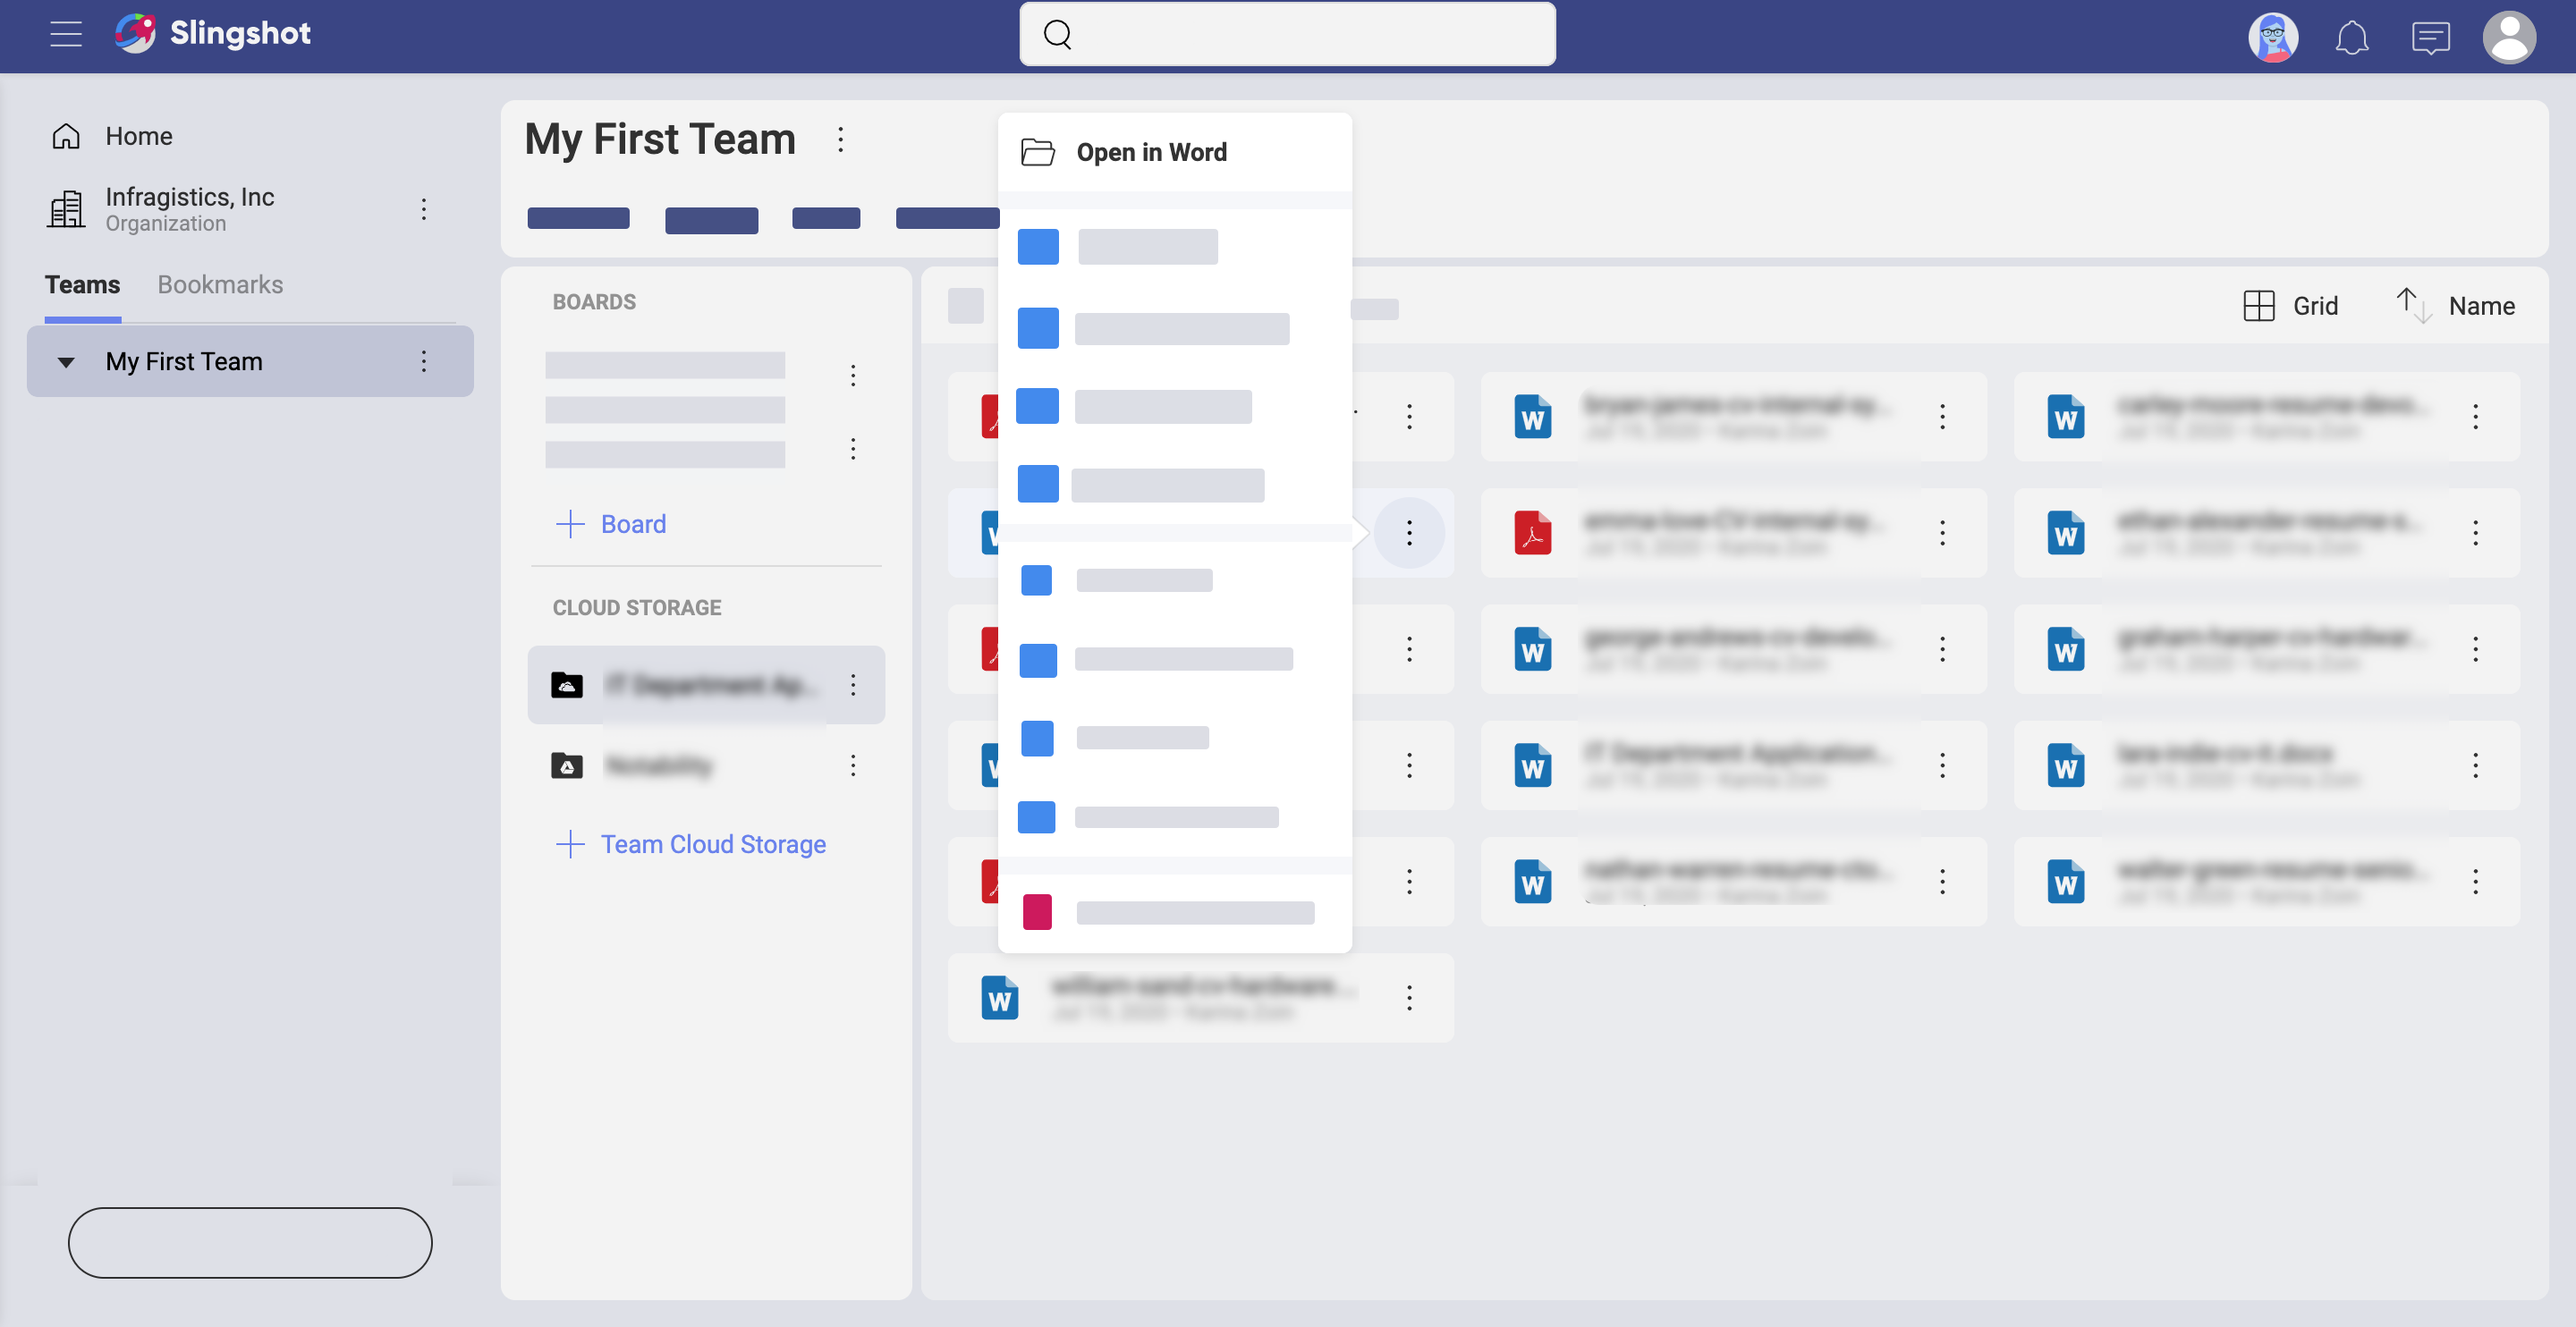
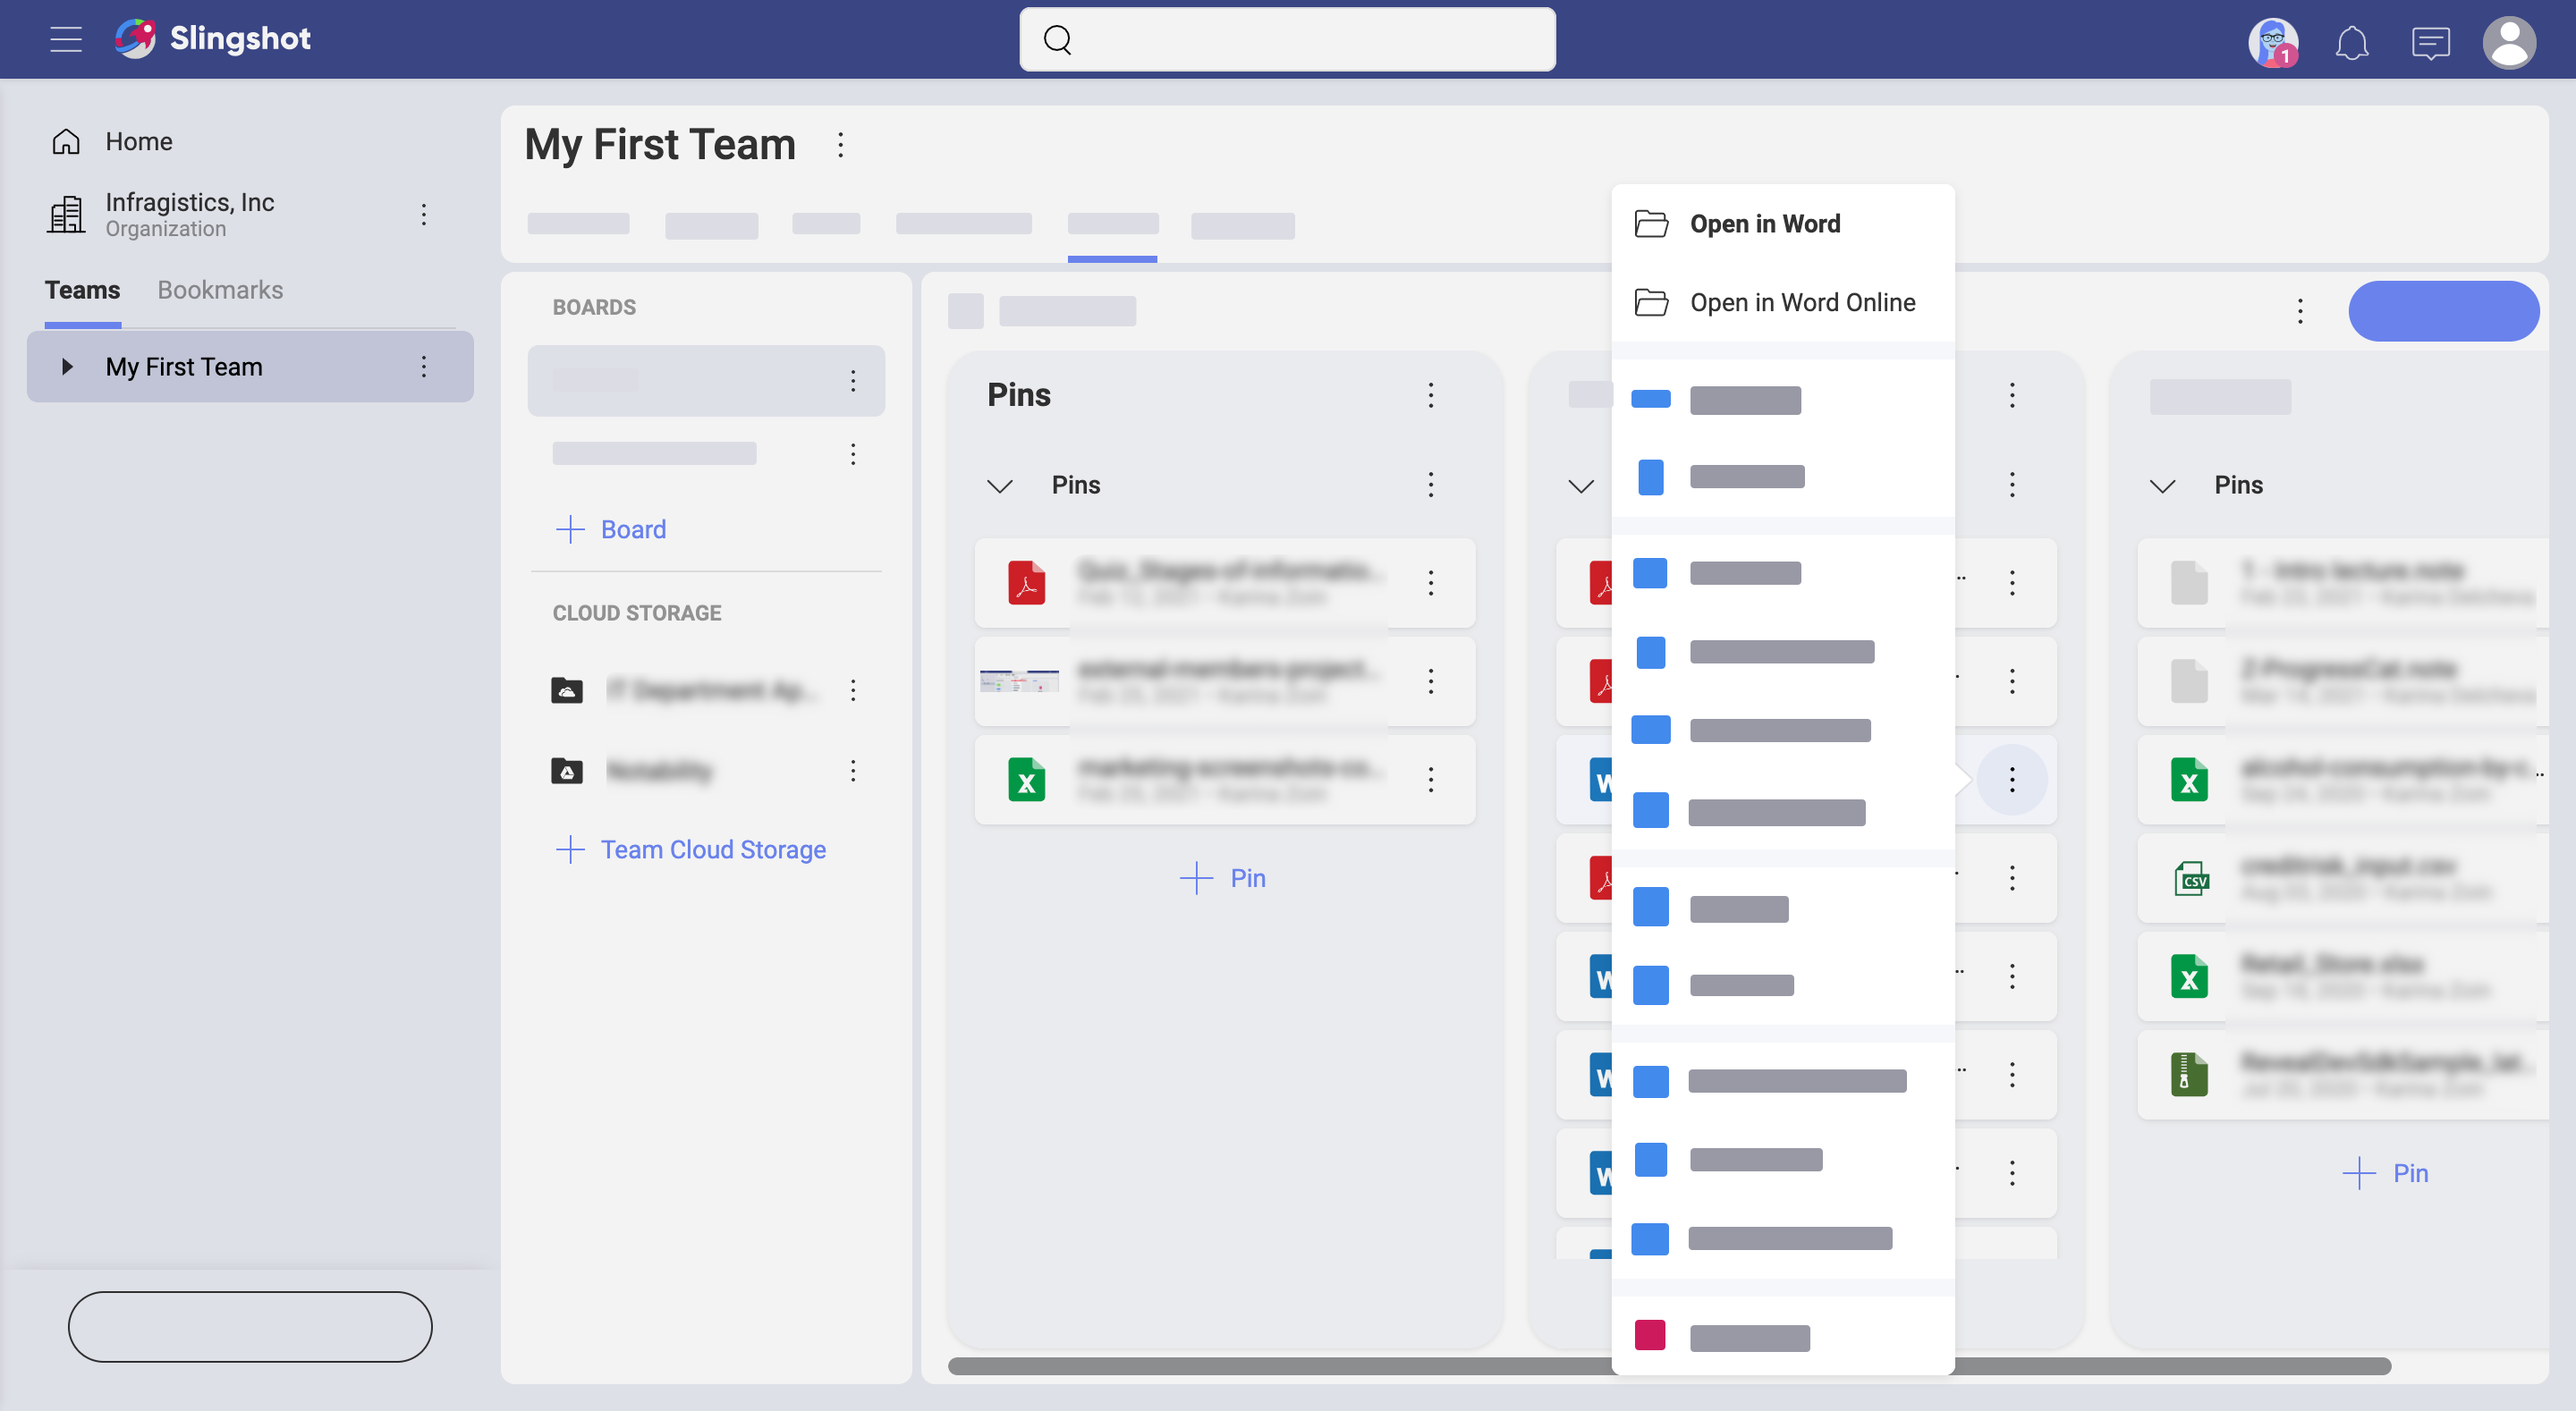
Update Open files and proofread + add a new screenshot

diff --git a/docTopics/en/components/content-starting.md b/docTopics/en/components/content-starting.md
@@ -8,10 +8,10 @@ Read on to get answers to most of your questions about content and boards.
 Connections to cloud storages get you access to your content within Slingshot and boards help you organize and share it with others.
 You can configure both personal and team boards and cloud storages, but they are meant to be used in different scenarios.
 
-Only you have access to personal cloud storages and boards, creating and deleting them whenever you want. Personal cloud storages and boards are both located in your personal space (**Home**), in the _Content_ navigation item (_folder icon_ on the left side of the screen).  
+Only you have access to personal cloud storages and boards, creating and removing them whenever you want. Personal cloud storages and boards are both found in your personal space (**Home**), in the _Content_ tab.  
 That being said, you can share personal content with others if you want. When you pin content from a personal cloud storage to a team shared board, that specific content becomes available for the whole team.
 
-All the members of a team have access to team cloud storages and boards. These shared connections and boards are located in the _Content_ navigation item of that team.  And everyone within the team can manage the connection or pin content to any board whenever they want.
+All the members of a team have access to team cloud storages and boards. These shared connections and boards are in the _Content_ tab of that team.  And everyone within the team can manage the connection or pin content to any board whenever they want.
 
 ### Boards vs Sections vs Groups
 
@@ -19,7 +19,7 @@ If boards are just containers, what are sections and groups? Below you can see e
 
 <img src="../images/board-sample.png" alt="Board example with several sections and groups" width="100%"/>
 
-As shown above, both elements are designed to help organize boards. **Sections** are simply divisions of a board and they can hold content that is organized in groups. Boards can have one or more sections and you can scroll through them by clicking & dragging( laptop or PC) or using the swipe gesture (mobile devices)
+As shown above, both elements are designed to help organize boards. **Sections** are simply divisions of a board and they can hold content that is organized in groups. Boards can have one or more sections and you can scroll through them by clicking & dragging (laptop or PC) or using the swipe gesture (mobile devices)
 
 You actually pin your content to **Groups**. Sections can hold several groups and they are the most basic element you can use to organize content.
 
@@ -31,7 +31,7 @@ You can access your boards and cloud storages by going to a team/project and loo
 
 <img src="../images/boards-storages-access.png" alt="Accessing boards and cloud storages in Slingshot" width="100%"/>
 
-In the _Content_ main navigation item you can find both boards and cloud storages. If you bookmark one of the boards to keep it at hand, you can also find it in your Personal Overview.  
+In the _Content_ tab you can find both boards and cloud storages. If you bookmark one of the boards to keep it at hand, you can also find it in your Personal Overview.  
 Follow the links for further details about [overviews](overviews.md).
 
 ### Which Cloud Storages Can I Connect?
@@ -54,7 +54,7 @@ In Slingshot, file types are represented using different icons. The most common 
 |---|---|---|---|
 |![Word file icon](../images/icon-word-file.png)| Microsoft Word file|![Google Doc file icon](../images/icon-google-doc-file.png)| Google Doc file|
 |![Excel file icon](../images/icon-excel-file.png)| Microsoft Excel file|![Google Sheet file icon](../images/icon-google-sheet-file.png)| Google Sheet file|
-|![Powerpoint file icon](../images/icon-powerpoint-file.png)| Microsoft Powerpoint file|![Image file icon](../images/icon-image-file.png)|Image file|
+|![PowerPoint file icon](../images/icon-powerpoint-file.png)| Microsoft PowerPoint file|![Image file icon](../images/icon-image-file.png)|Image file|
 |![PDF file icon](../images/icon-pdf-file.png)|Adobe PDF file|![Video file icon](../images/icon-video-file.png)| Video file|
 |![Web link icon](../images/icon-web-link.png)| Web link|![Zip file icon](../images/icon-zip-file.png)| ZIP file|
 
@@ -66,14 +66,14 @@ To share files, basically you just pin the content you want to share to a board,
 
 <img src="../images/pin-content-action.png" alt="Pin content to a board in Slingshot" width="100%"/>
 
-Normally you'll use boards to share files, but if you are working with a team or project you can pin relevant content to the overview. This will increase the visibility of that specific file. Additionally, you can also pin a file to a discussion to collaborate over it temporarily.
+Normally you'll use boards to share files, but if you are working with a team or project, you can pin relevant content to the overview. This will increase the visibility of that specific file. Additionally, you can also pin a file to a discussion to collaborate over it temporarily.
 
 ### How to Set File Permissions?
 
 When you share files inside teams and projects, you make these files available for the users inside the team/project. 
 File permissions are meant to give the file owner control over who can access their files. Each time you pin a file, Slingshot will ask you what type of permission you want to set. You will see a dialog that looks like this: 
 
-<img src="../images/file-permissions-dialog.png" alt="A dialog showing the three file permissions types" width="80%" />
+<img src="../images/file-permissions-dialog.png" alt="A dialog showing the three file permission types" width="80%" />
 
 Here, you can choose between the following three permission types:
 
@@ -86,17 +86,18 @@ Here, you can choose between the following three permission types:
 
 <img src="../images/manage-members-pending-access.png" alt="The dialog showing pending access requests" width="100%" />
 
-The file owner can also pre-allow access for chosen team/project members by using the **Manage Access** option under the *Automatic* and *Manual* permission types. 
+The file owner can also pre-allow access for chosen team/project members by using the **Manage Access** option when selecting the file permissions type. 
 
 > [!NOTE] You can change the default file permission type by selecting the *Remember my choice* checkbox. 
 
 **Only Members Can Access** is great when you want your whole team to have quick access to your file. If you choose *Only Members Can Access*, Slingshot will automatically grant access to the file providers of the other team/project members. That means all project or team members can open and edit the file without asking the owner explicitly for access.  
 
-**All Can Access** is the least restrictive type of permissions. Anyone with a link to the file can access it. That means any user can open the document, if they have the link to it. As an owner of the file you can't control who opens your file unless you change to a more restrictive type of permissions. In this case, the link to the file will not be valid anymore for any user outside of the team or project.  
+**All Can Access** is the least restrictive type of permissions. Anyone with a link to the file can access it. That means any user can open the document, if they have the link to it. As an owner of the file, you can't control who opens your file unless you change to a more restrictive type of permissions. In this case, the link to the file will not be valid anymore for any user outside of the team or project.  
 
 > [!NOTE]
-> Users who want to access a file uploaded to a cloud file provider need not only permissions in Slingshot but also a valid account with that cloud provider. For example, when you try to open a file from *OneDrive* shared by another user, you will be asked to log into your *OneDrive* account. If you don't have an account with *OneDrive*, Slingshot will deny access. This **does not apply** when the file has public permissions and you open it in a browser. 
+> Users who want to access a file uploaded to a cloud file provider need not only permissions in Slingshot but also a valid account with that cloud provider. For example, when you try to open a file from *OneDrive* shared by another user, you will be asked to log into your *OneDrive* account. If you don't have an account with *OneDrive*, Slingshot will deny access. This **does not apply** when the file has public permissions, and you open it in a browser. 
 
+Find out how file permissions apply when sharing a file in the chat by reading [How Can I Share a File in the Chat?](chat-starting.md). 
 ### How to Manage File Permissions?
 
 Owners can always view and edit the permissions to their files. They can also manage the members that already have access.  
@@ -116,17 +117,25 @@ Use the **+ Members** blue button to add more members who can view and edit the 
 
 On the right of each member's name, you can click/tap **Editor** > **Remove** to revoke access. 
 
+>[!NOTE] **Access  cannot be automatically revoked.** If you change a file's permissions from *Only Members Can Access* to *Owner Gives Access* make sure you check for *Editors* in **Member Access** and revoke their permissions if necessary. Users who have already opened the file even once, are remembered as *Editors* and their access will not be automatically revoked with changing the file permissions to the more restrictive type. 
 ### How to Open Files?
 
-You can open a file by clicking/tapping on it. 
+Opening a file in Slingshot is as easy as clicking/tapping on it. 
 
-For some files 
-Depending on the platform you're on, you can use different applications to open your files. As Slingshot relies on invoking 3rd party applications to do the job, it's entirely up to you. 
+For MS Office files you can choose where to open them. They can be opened online or in the associated MS Office application on your device. To set the default application that will open your files, go to:
+
+*your profile* > *Settings* > *General Settings* > *Open Files*
+
+Then, in the dropdown choose between: 
+* **Native app** - the file opens in the application on your device - MS Word for example;
+*  **Online** - the file opens in the web application - MS Word, Excel, and PowerPoint Online. 
+
+Files in personal and team cloud storages will be opened with the default application. However, for files that are pinned on a board in *Content*, you can always choose from their menu which application to use to open them (see the screenshot below). 
 
 <img src="../images/content-open-file.png" alt="Opening a Word file" width="100%" />
 ### How to Edit Files?
 
-Depending on the platform you're on, you can use different applications to open your files. As Slingshot relies on invoking 3rd party applications to do the job, it's entirely up to you.
+Depending on the platform you're on, you can use different applications to edit your files. As Slingshot relies on invoking 3rd party applications to do the job, it's entirely up to you.
 
 <img src="../images/content-edit-file.png" alt="Editing or downloading a Word file" width="100%"/>
 
@@ -154,9 +163,9 @@ You can change where drag & drop files are uploaded in _General Settings_ > _Man
 
 ### Can I Rearrange Boards, Sections, and Groups?
 
-You can reorganize, copy, and move around boards, sections, and groups if needed. This is very important as it makes it easy for you focus on your work, not planning ahead which sections or groups you need. You can even move boards from teams to projects. All this changes can happen organically and were designed to boost productivity and avoid losing time.  
+You can reorganize, copy, and move around boards, sections, and groups if needed. This is very important as it makes it easy for you focus on your work, not planning ahead which sections or groups you need. You can even move boards from teams to projects. All these changes can happen organically and were designed to boost productivity and avoid losing time.  
 
 ### Rearranging Sections and Groups
 
-Sections and groups can be copied and moved in order to improve your content organization after you have created your boards elements.
+Sections and groups can be copied and moved to improve your content arrangement after you have created your boards elements.
 The move option relocates the selected element to another board/section, while copying allows you to keep a copy of this element in its original location.
